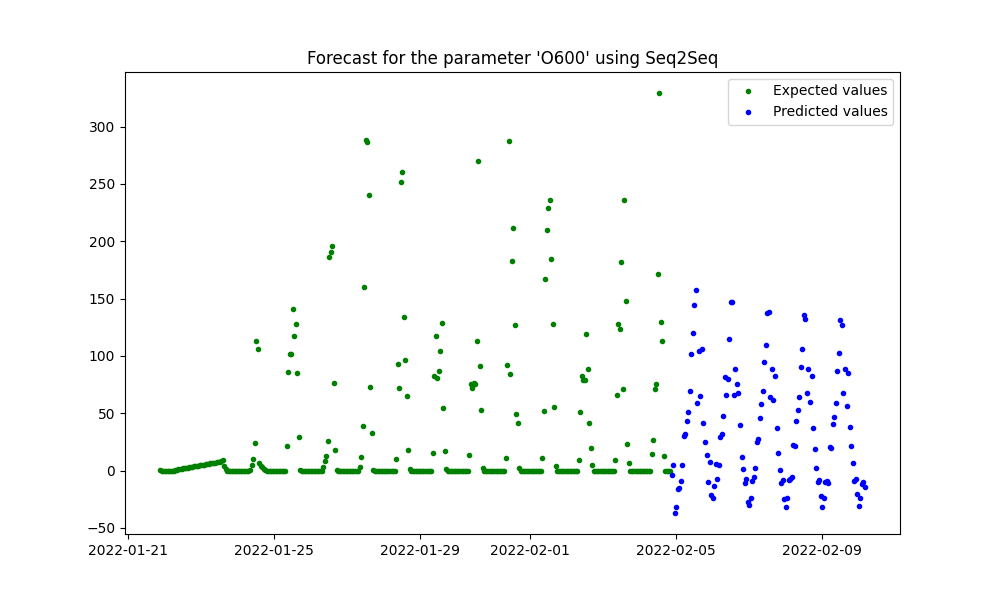
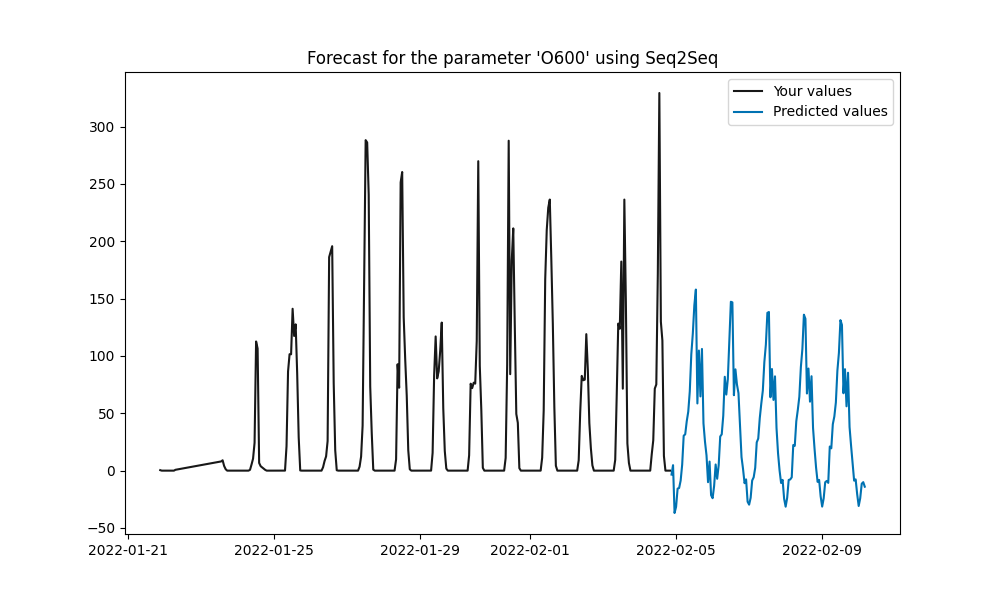
plots3

diff --git a/server/generate_plots.py b/server/generate_plots.py
@@ -1,0 +1,58 @@
+from predictors import *
+import pandas as pd
+from data_frames import FrameLoader
+import matplotlib.pyplot as plt
+from lstm_train import RecurentNeuralNetwork
+from seq2seq_train import Seq2SeqNeuralNetwork
+import os
+
+class PlotsGenerator:
+    def __init__(self, dataframe_loader) -> None:
+        self.dataframe_loader = dataframe_loader
+        self.df = dataframe_loader.load()[:336]
+
+    def lstm_plots(self):
+        figs: list[plt.Figure] = []
+        predictor = LstmPredictorNormalized()
+        predicted = predictor.predict(self.df, 128)
+
+        save_dir = 'images/lstm/'
+        os.makedirs(save_dir, exist_ok=True)
+
+        for column in predicted.columns[1:]:
+            plt.figure(figsize=(10, 6))
+            plt.plot(self.df['Timestamp'], self.df[column].astype('float32'), '#181818', label='Your values')
+            plt.plot(predicted['Timestamp'], predicted[column].astype('float32'), '#0072B2', label='Predicted values')
+            plt.title(f'Forecast for the parameter \'{column}\' using LSTM')
+            plt.legend()
+            figs.append(plt.gcf)
+            # plt.savefig(f'images/lstm/lstm_{column}.png')
+            plt.close()
+        
+        return figs
+
+    def seq2seq_plots(self):
+        figs: list[plt.Figure] = []
+        predictor = Seq2SeqPredictorNormalized()
+        predicted = predictor.predict(self.df, 128)
+
+        save_dir = 'images/seq2seq/'
+        os.makedirs(save_dir, exist_ok=True)
+
+        for column in predicted.columns[1:]:
+            plt.figure(figsize=(10, 6))
+            plt.plot(self.df['Timestamp'], self.df[column].astype('float32'), '#181818', label='Your values')
+            plt.plot(predicted['Timestamp'], predicted[column].astype('float32'), '#0072B2', label='Predicted values')
+            plt.title(f'Forecast for the parameter \'{column}\' using Seq2Seq')
+            plt.legend()
+            # plt.savefig(f'images/seq2seq/seq2seq_{column}.png')
+            figs.append(plt.gcf)
+            plt.close()
+        
+        return figs
+
+
+if __name__ == '__main__':
+    PlotsGenerator(FrameLoader(FrameLoader.RAW)).seq2seq_plots()
+    PlotsGenerator(FrameLoader(FrameLoader.RAW)).lstm_plots()
+

diff --git a/server/predictors.py b/server/predictors.py
@@ -87,8 +87,25 @@ if __name__ == '__main__':
 
     for column in predicted.columns[1:]:
         plt.figure(figsize=(10, 6))
-        plt.plot(df['Timestamp'], df[column].astype('float32'), 'g.', label='Expected values')
-        plt.plot(predicted['Timestamp'], predicted[column].astype('float32'), 'b.', label='Predicted values')
+        plt.plot(df['Timestamp'], df[column].astype('float32'), '#181818', label='Your values')
+        plt.plot(predicted['Timestamp'], predicted[column].astype('float32'), '#181818', label='Predicted values')
+        plt.legend()
+        plt.title(f'Forecast for the parameter \'{column}\' using Lstm')
+        plt.savefig(f'images/seq2seq/seq2seq_{column}.png')
+        plt.close()
+
+    predictor = LstmPredictorNormalized()
+    predicted = predictor.predict(df, 128)
+
+    save_dir = 'images/lstm/'
+    os.makedirs(save_dir, exist_ok=True)
+
+    for column in predicted.columns[1:]:
+        plt.figure(figsize=(10, 6))
+        plt.plot(df['Timestamp'], df[column].astype('float32'), '#181818', label='Your values')
+        plt.plot(predicted['Timestamp'], predicted[column].astype('float32'), '#181818', label='Predicted values')
         plt.legend()
         plt.title(f'Forecast for the parameter \'{column}\' using Seq2Seq')
-        plt.savefig(f'images/seq2seq/seq2seq_{column}.png')
+        plt.savefig(f'images/lstm/lstm_{column}.png')
+
+    
